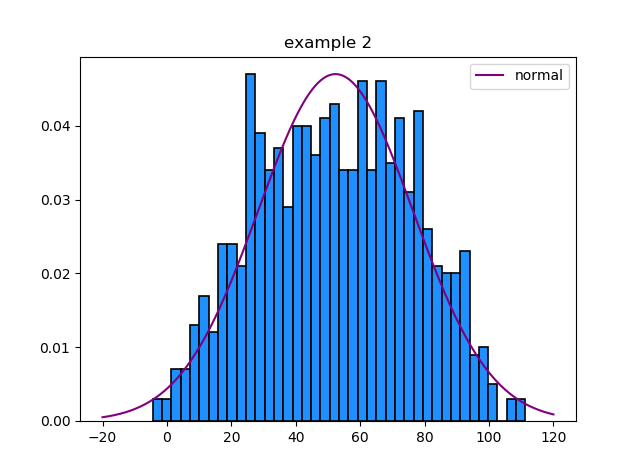
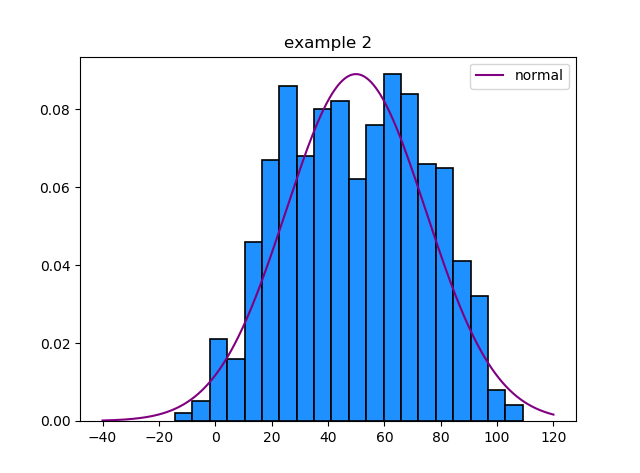
added bins option in make function

diff --git a/pdsfit.py b/pdsfit.py
@@ -43,14 +43,14 @@ def lastRow(idx, workbook, col=1):
     return lwr_cell.row
 
 
-def make(data,name,pds=['gauss','lognorm','expon','gamma','beta'],xlims=''):
+def make(data,name,pds=['gauss','lognorm','expon','gamma','beta'],bins= 40,xlims=''):
         
     plt.figure()
 
     'plot density histogram'
     wts = np.ones_like(data) / float(len(data))
     
-    n, bins, patches = plt.hist(data,bins=40,stacked =True, weights=wts,\
+    n, bins, patches = plt.hist(data,bins = bins,stacked =True, weights=wts,\
                                 color='dodgerblue',edgecolor='k',linewidth=1.2)
 
     
@@ -245,9 +245,9 @@ ex1 = np.random.normal(10, 10, 1000)
 ex2 = 2*np.random.uniform(1,40, 1000) + np.random.normal(10, 10, 1000)
 ex3 = 3*np.random.exponential(4,1000)
 
-make(ex1,'example 1',['gamma','beta'])
-make(ex2,'example 2',['gauss'])
-make(ex3,'example 3')
+make(ex1,'example 1',['gamma','beta'],20)
+make(ex2,'example 2',['gauss'],20)
+make(ex3,'example 3',bins=20)
 
 '''------------------------------------------------------------------------------------'''
 
